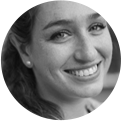
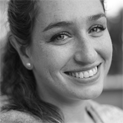
Fixed bugs#1

diff --git a/index.html b/index.html
@@ -14,8 +14,10 @@
     <div class="wrapper-banner">
         <header class="header">
             <div class="login-contaner">
-                <button class="log-in">log in</button>
-                <button class="sign-in">sign in</button>
+                <nav class="navigation">
+                    <button class="log-in">log in</button>
+                    <button class="sign-in">sign in</button>
+                </nav>
             </div>
             <a href="#" class="logo">urlaubsgluk</a>
         </header>
@@ -29,41 +31,41 @@
             <li class="section-item">
                 <figure class="fig-card-img first">
                     <img src="./img/bradley.png" class="card-img" alt="Bradley">
-
                     <figcaption>
                         <p class="section-item-name">Bradley Hunter</p>
+                        <p class="section-item-descr">Lorem ipsum dolor, sit amet consectetur adipisicing elit.</p>
                     </figcaption>
                 </figure>
-                <p class="section-item-descr">Lorem ipsum dolor, sit amet consectetur adipisicing elit.</p>
             </li>
             <li class="section-item">
                 <figure class="fig-card-img second">
                     <img src="./img/heathe.png" class="card-img" alt="Lucas">
                     <figcaption>
                         <p class="section-item-name">Heathe Walker</p>
+                        <p class="section-item-descr">Lorem ipsum dolor sit amet consectetur adipisicing elit. Eum sunt
+                            distinctio assumenda voluptatibus in hic sed.</p>
                     </figcaption>
                 </figure>
-                <p class="section-item-descr">Lorem ipsum dolor sit amet consectetur adipisicing elit. Eum sunt
-                        distinctio assumenda voluptatibus in hic sed.</p>
             </li>
             <li class="section-item">
                 <figure class="fig-card-img third">
                     <img src="./img/lucas.png" class="card-img" alt="Heathe">
                     <figcaption>
                         <p class="section-item-name">Lucas Marsha</p>
+                        <p class="section-item-descr">Lorem ipsum dolor sit amet, consectetur adipisicing elit. Sunt,
+                            voluptatum!</p>
                     </figcaption>
                 </figure>
-                <p class="section-item-descr">Lorem ipsum dolor sit amet, consectetur adipisicing elit. Sunt,
-                        voluptatum!</p>
             </li>
             <li class="section-item">
                 <figure class="fig-card-img fourth">
                     <img src="./img/bradleyH.png" class="card-img" alt="bradleyH">
-                    <figcaption class="f1">
+                    <figcaption>
                         <p class="section-item-name">Bradley Hunter</p>
+                        <p class="section-item-descr">Lorem ipsum dolor sit amet consectetur adipisicing elit.</p>
                     </figcaption>
                 </figure>
-                <p class="section-item-descr">Lorem ipsum dolor sit amet consectetur adipisicing elit.</p>
+                
             </li>
         </ul>
         <a href="#" class="section-link">See other partners</a>

diff --git a/css/components/section.css b/css/components/section.css
@@ -3,13 +3,13 @@
 /* Section */
 .fig-card-img{
     position: relative;
-    width: 12.1rem;
+    /* width: 12.1rem; */
     height: 12.1rem;
     display: inline-block;
 }
 .fig-card-img::after{
     position: absolute;
-    right: -0.7rem;
+    right: 4.3rem;
     bottom: -0.7rem;
     content: '';
     display: inline-block;
@@ -20,6 +20,7 @@
 }
 .card-img{
     margin-bottom: 2rem;
+    border-radius: 50%;
 }
 .first::after{
     background: url('../../img/icon_tv.png') no-repeat center center var(--color-link);
@@ -47,14 +48,21 @@
 .section-header{
     font-size: 2.3rem;
 }
+.section-list{
+    display: inline-block;;
+}
 .section-item-descr{
-    margin: 2rem 1rem;
+    margin-top:2rem;
 }
 .section-item{
     margin-bottom: 2.5rem;
+    width: 22rem;
 }
 .section-item:last-child{
-    margin-bottom: 3rem;
+    margin-bottom: 0;
+}
+.section-link{
+    margin-top: 3rem;
 }
 
 @media screen and (min-width:48rem){
@@ -72,16 +80,17 @@
         display: flex;
         justify-content: space-between;
         flex-wrap: wrap;
+        margin-bottom: 3.7rem;
     }
     .section-item{
         width: 23.6rem;
         margin-bottom: 5.7rem;
     }
     .section-item:nth-child(n+3){
-        margin-bottom: 3.7rem;
+        margin-bottom: 0;
     }
 }
-@media screen and (min-width:90em){
+@media screen and (min-width:60em){
     .section-partners{
         width: 94.2rem;
     }
@@ -96,6 +105,10 @@
         background-color: var(--color-link);
         color: var(--font-color-banner);
     }
+    /* figcaption{
+        width: 21rem;
+        margin: 0 auto;
+    } */
     /* .section-item-descr{
         width: 21rem;
         margin: 0;

diff --git a/css/components/header.css b/css/components/header.css
@@ -6,7 +6,7 @@
 .wrapper-banner{
     background-image: url("../../img/bgr_mobile.png");
     background-repeat: no-repeat;
-    height: 54rem;
+    min-height: 54rem;
     width: 32rem;
     text-align: center;
     margin-bottom: 7rem;
@@ -21,6 +21,9 @@
 .section-item-descr,
 .section-link{
     font-size: 1.4rem;
+}
+.navigation{
+    margin-bottom: 11.5rem;
 }
 .log-in,
 .sign-in{
@@ -38,7 +41,6 @@
 
 .logo{
     font-size: 2rem;
-    margin-top: 11.5rem;
 }
 .header-banner{
     font-size: 3rem;
@@ -84,18 +86,20 @@
         width: 22.5rem;
     }
     .header-banner{
-        margin-bottom: 4rem;
+        /* margin-bottom: 4rem; */
         font-size: 5.2rem;
-        display: inline-block;
+        margin: 0 auto;
+        /* display: inline-block; */
         width: 51.2rem;
     }
     .descr-banner{
+        margin-top: 4rem;;
         margin-bottom: 3.5rem;
         font-size: 2.2rem;
     }
 } 
 
-@media screen and (min-width:90em){
+@media screen and (min-width:60em){
     .wrapper-banner{
         background-image: url(../../img/bgr_desktop.png);
         width: 144rem;
